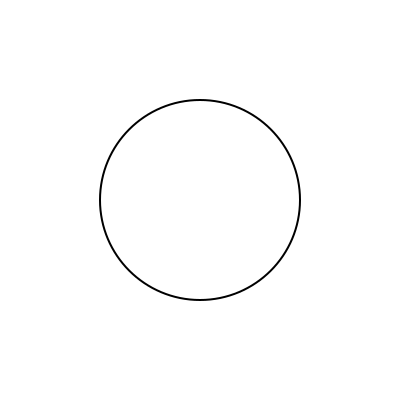
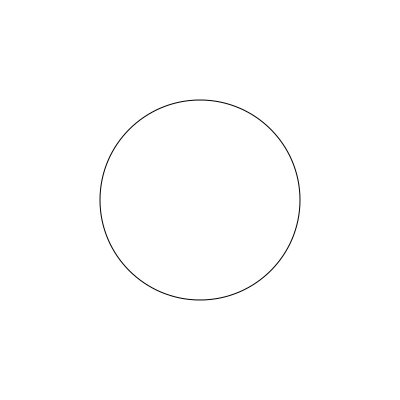
...

diff --git a/example/test4.js b/example/test4.js
@@ -1,0 +1,101 @@
+// render.js
+import { createCanvas } from 'canvas';
+import fs from 'fs';
+import { beach } from '../src/beachball.js';
+import { MomentTensor } from '../src/classes.js';
+
+// ─── 1) تابع رسم beachball ───────────────────────────────────────────────
+/**
+ * رسم یک patch (ellipse یا polygon) روی کانواس
+ * بر مبنای ساختار خروجیِ beach().patches[i]
+ *
+ * @param {CanvasRenderingContext2D} ctx
+ * @param {object}                patch    – { type:'ellipse', xy, width, height } | { vertices: [...], ... }
+ * @param {'b'|'w'|null}          fillFlag – از data.fillColors[i]
+ * @param {number}                offsetX  – مقدار جابهجایی X (مثلاً data.xy[0])
+ * @param {number}                offsetY  – مقدار جابهجایی Y (مثلاً data.xy[1])
+ */
+function drawPatch(ctx, patch, fillFlag, offsetX, offsetY) {
+    ctx.beginPath();
+
+    if (patch.type === 'ellipse') {
+        // بیضی
+        const [cx, cy] = patch.xy;
+        ctx.ellipse(
+            cx + offsetX,
+            cy + offsetY,
+            patch.width,
+            patch.height,
+            0, 0, 2 * Math.PI
+        );
+
+    } else if (patch.vertices) {
+        // چندضلعی
+        const verts = patch.vertices;
+        ctx.moveTo(verts[0][0] + offsetX, verts[0][1] + offsetY);
+        for (let i = 1; i < verts.length; i++) {
+            ctx.lineTo(verts[i][0] + offsetX, verts[i][1] + offsetY);
+        }
+        ctx.closePath();
+    }
+
+    // پرکردن (b=آبی، w=سفید)
+    if (fillFlag === 'b' || fillFlag === 'w') {
+        ctx.fillStyle = (fillFlag === 'b' ? '#0000ff' : '#ffffff');
+        ctx.fill();
+    }
+
+    // رسم لبه با ضخامت و رنگ ثابت
+    ctx.lineWidth = 0.5;
+    ctx.strokeStyle = '#000000';
+    ctx.stroke();
+}
+
+/**
+ * رسم کامل beachball از آبجکت data = beach(...)
+ *
+ * @param {CanvasRenderingContext2D} ctx
+ * @param {object} data – { patches, fillColors, xy, size, … }
+ */
+function drawBeach(ctx, data) {
+    const { patches, fillColors, xy, size } = data;
+
+    // ۱) یک بار invert محور Y و انتقال origin به پایین-چپ
+    ctx.save();
+    ctx.translate(0, size);
+    ctx.scale(1, -1);
+
+    // ۲) برای هر پچ فراخوانی drawPatch با offset از data.xy
+    const [dx, dy] = xy;
+    patches.forEach((patch, i) => {
+        drawPatch(ctx, patch, fillColors[i], dx, dy);
+    });
+
+    ctx.restore();
+}
+
+
+
+// ─── 2) بخش اجرایی: تولید داده + ذخیره به PNG ───────────────────────────
+(async () => {
+    // مقادیر Mxx را مطابق درخواست شما اینجا قرار دهید:
+    const Mrr = -58140500000000000;
+    const Mtt = 74811200000000000;
+    const Mpp = -16670600000000000;
+    const Mrt = -7755400000000000;
+    const Mrp = 16777100000000000;
+    const Mtp = 16055700000000000;
+
+    const mt = new MomentTensor(Mrr, Mtt, Mpp, Mrt, Mrp, Mtp, 0);
+    const data = beach(mt);
+
+    console.log(data);
+    // console.log(data.patches[1].vertices);
+
+    // اندازهٔ دلخواه کانواس (مثلاً 400px)
+    const canvas = renderBeach(data, 400);
+
+    // ذخیرهٔ تصویر
+    fs.writeFileSync('beachball.png', canvas.toBuffer('image/png'));
+    console.log('✅ Beachball saved as beachball.png');
+})();

diff --git a/src/beachball.js b/src/beachball.js
@@ -595,9 +595,6 @@ export function plotDC(np1, size = 200, xy = [0, 0], width = 200) {
         const xScaled = x.map(v => v * d / 90);
         const yScaled = y.map(v => v * d / 90);
 
-        // console.log(xScaled.length, yScaled.length);
-        // console.log(xScaled[0], yScaled[0]);
-
         // Pixel resolution relative to canvas size
         const res = width.map(v => v / size);
 
@@ -628,7 +625,6 @@ export function plotMT(T, N, P, size = 200, plot_zerotrace = true, x0 = 0, y0 = 
     } catch (e) {
         width = [width, width];
     }
-
 
     /* ---- Python lists replaced with JS arrays of same length -------- */
     const collect = [];
@@ -1046,16 +1042,16 @@ export function plotMT(T, N, P, size = 200, plot_zerotrace = true, x0 = 0, y0 = 
  *   • plotDcUsed: boolean flag which algorithm was used
  */
 export function beach(fm, {
-    linewidth = 2,//--
+    // linewidth = 2,//--
     facecolor = 'b',
     bgcolor = 'w',
-    edgecolor = 'k',//--
-    alpha = 1.0,//--
+    // edgecolor = 'k',//--
+    // alpha = 1.0,//--
     xy = [0, 0],
     width = 200,
     size = 100,
     nofill = false,
-    zorder = 100//--
+    // zorder = 100//--
 } = {}) {
     // ─── 1) Ensure minimum resolution ───
     if (size < 100) size = 100;
@@ -1088,12 +1084,16 @@ export function beach(fm, {
         if (Math.abs(n.val) < EPSILON && Math.abs(t.val + p.val) < EPSILON) {
             [colors, patches] = plotDC(np1, size, xy, width);
         } else {
-            [colors, patches] = plotMT(t, n, p, size, true, xy, width);
+            [colors, patches] = plotMT(t, n, p, size,
+                true, 0, 0, xy, width);
+
             plotDcUsed = false;
         }
     } else {
         [colors, patches] = plotDC(np1, size, xy, width);
     }
+
+
 
     // ─── 5) Build fillColors array ───
     const fillColors = patches.map((_, i) => {
@@ -1106,10 +1106,10 @@ export function beach(fm, {
     return {
         patches,        // [{ type:'ellipse', xy:[x,y], width, height } | { vertices:[[x,y],…], res:[rx,ry], center:[cx,cy] }]
         fillColors,     // [color|string|null]
-        edgecolor,      // string
-        linewidth,      // number
-        alpha,          // number
-        zorder,         // number
+        // edgecolor,      // string
+        // linewidth,      // number
+        // alpha,          // number
+        // zorder,         // number
         xy,             // [x,y]
         width,          // [wx,wy]
         size,           // number
